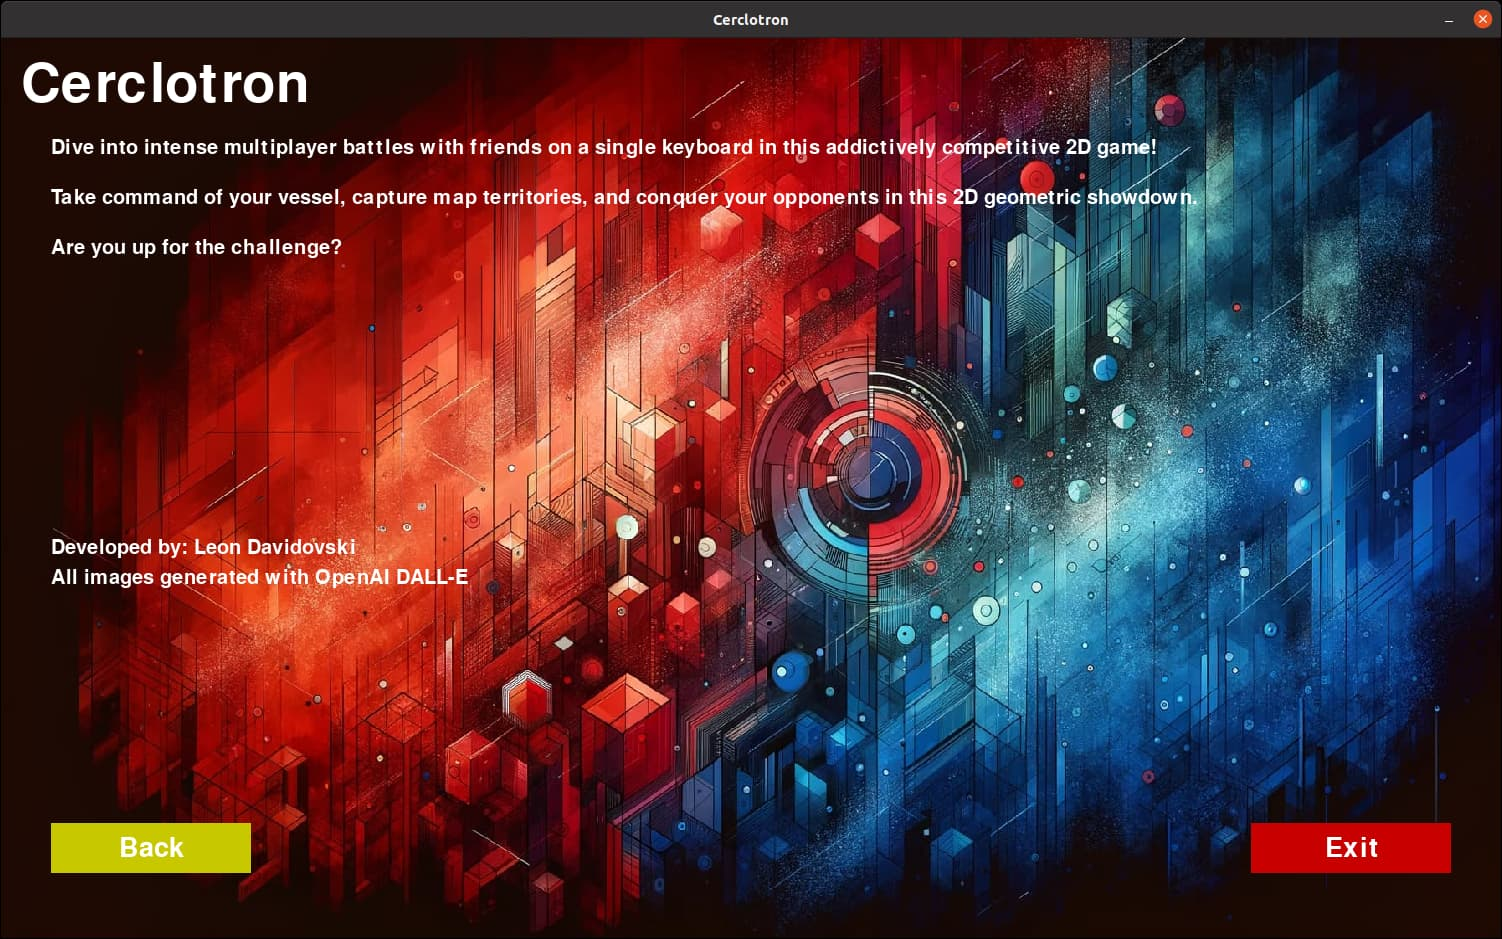
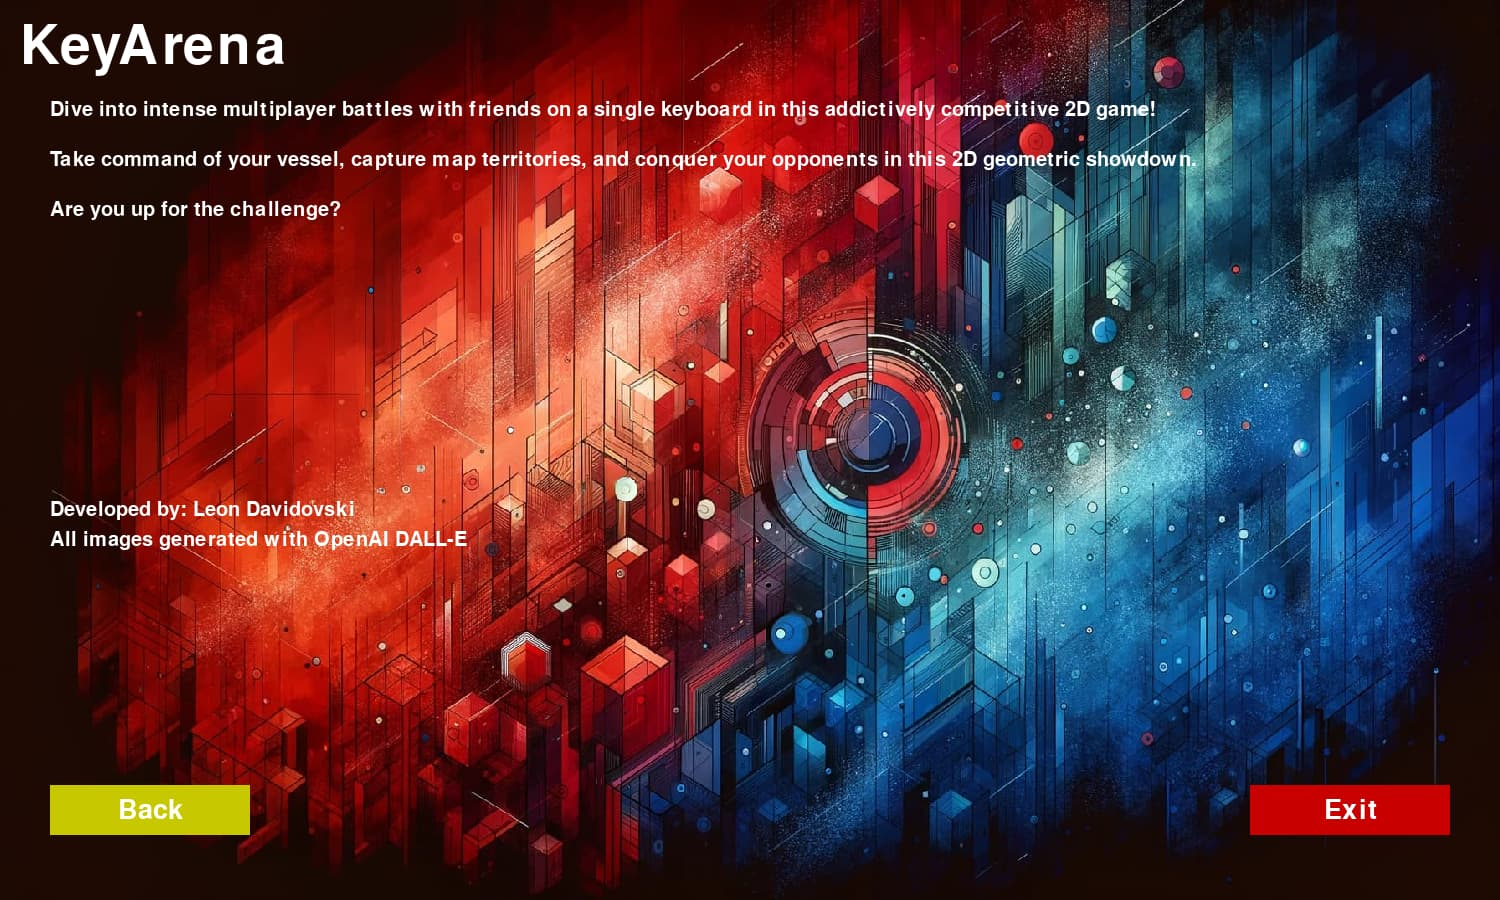
replace old name by KeyArena

diff --git a/README.md b/README.md
@@ -17,7 +17,7 @@ Freely inspired from the game [Poggo](https://random-bazar.fr/en/label-2/yojun/)
 ![App](pictures/welcome.jpg)
 ![Credit](pictures/credit.jpg)
 ![Versus](pictures/vs.jpg)
-![Game](pictures/game.png)
+![Game](pictures/game.jpg)
 
 
 ## Run Locally
